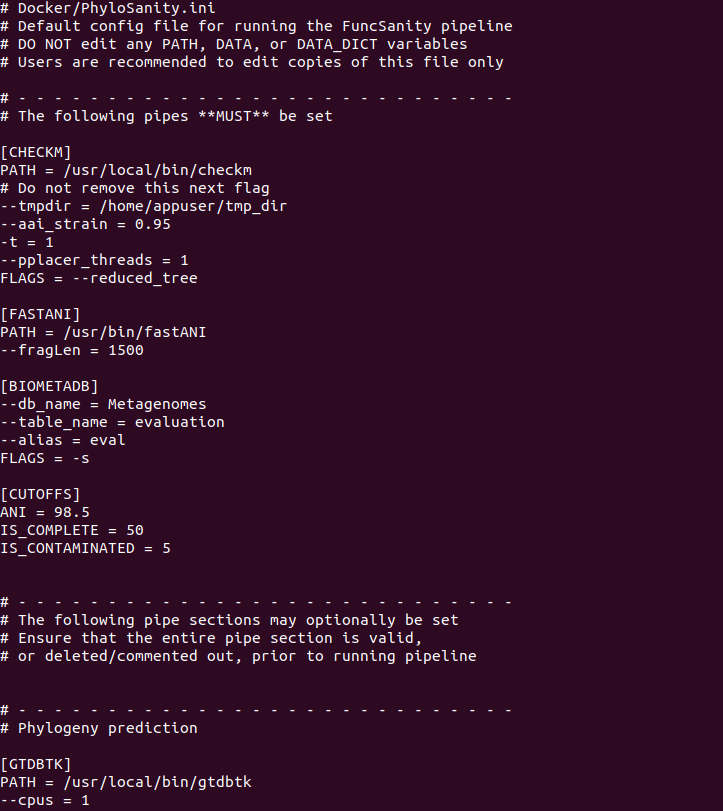
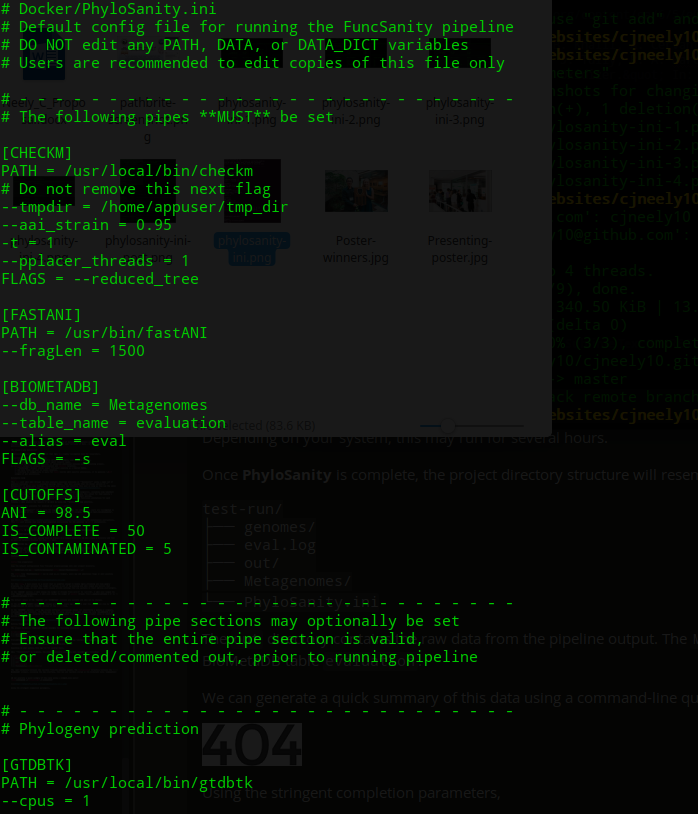
Modify pictures

diff --git a/_posts/2019-08-23-MetaSanity-demo.md b/_posts/2019-08-23-MetaSanity-demo.md
@@ -73,7 +73,7 @@ In the optional `GTDBTK` section, no changes are needed. Users may choose to omi
 
 In the `CUTOFFS` section, users may provide different (inclusive) values for identifying a genome as complete, contaminated, and redundant. This demo will use the above values, so I will change the line `IS_COMPLETE = 50` to `IS_COMPLETE = 90`, changing the required CheckM-determined completion score to a higher value to identify a genome as "complete".
 
-![](https://cjneely10.github.io/files/phylosanity-ini-1.png)
+![](https://cjneely10.github.io/files/phylosanity-ini-post.png)
 
 Running PhyloSanity
 ------
@@ -101,29 +101,8 @@ Once **PhyloSanity** is complete, the project directory structure will resemble 
 The `out` directory contains the raw data from the pipeline output. The `Metagenomes` directory contains the `BioMetaDB` project, including the SQL interface, that has all raw data stored in the BioMetaDB table `evaluation`.
 
 We can generate a quick summary of this data using a command-line query:
-<pre><code>>dbdm SUMMARIZE -c Metagenomes -t evaluation
+`dbdm SUMMARIZE -c Metagenomes -t evaluation`
 
-SUMMARIZE:	View summary of all tables in database
- Project root directory:	Metagenomes
- Name of database:		Metagenomes.db
+![](https://cjneely10.github.io/files/phylosanity-ini-2.png)
 
-*******************************************************************************************
-	     Table Name:	evaluation  
-	Number of Records:	       201/201       
-
-	        Database	Average             	Std Dev     
-
-	      completion	83.504              	85.166      
-	   contamination	2.231               	3.246       
--------------------------------------------------------------------------------------------
-
-	        Database	Most Frequent       	Number    	Total Count 
-
-	     is_complete	False               	109       	201         
-	 is_contaminated	False               	175       	201         
-	is_non_redundant	True                	138       	201         
-	       phylogeny	d__Bacteria;p__Pl...	8         	201         
-	redundant_copies	[]                  	98        	201         
--------------------------------------------------------------------------------------------</code></pre>
-
-
+Using the stringent completion parameters, 
